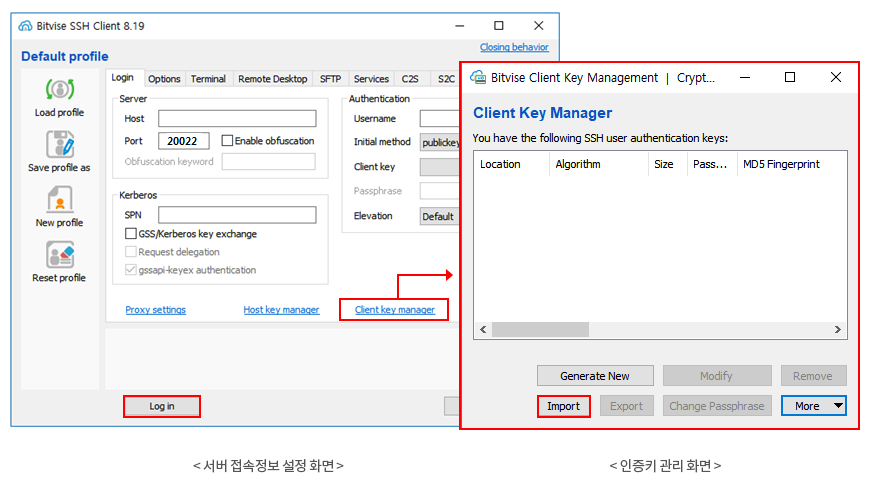
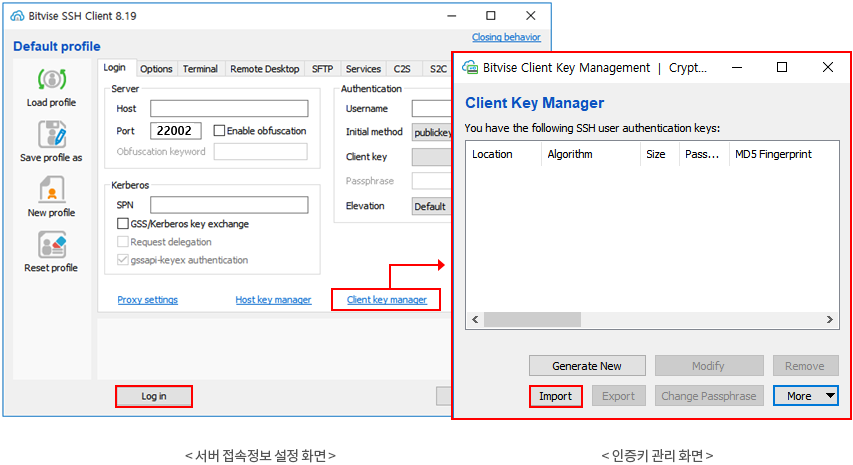
리눅스 접속방법 가이드 수정, 캡쳐화면 및 포트 수정

diff --git a/comm/views/guideInfo/accessGuideInfoLinuxConnect.html b/comm/views/guideInfo/accessGuideInfoLinuxConnect.html
@@ -35,14 +35,12 @@
 	<div class="imgWrap mgt0">
 		<img alt="" src="images/access_guide/access_guide_linux_img01.png" alt="">
 	</div>
-	<p class="txt_level2">‘접속 인증키(KEY)’ 항목의<em class="ico_dw">다운로드 아이콘</em>다운로드 아이콘을 클릭하여 사용자PC에 인증키 파일(.pem)을 저장합니다.</p>
+	<p class="txt_level2">‘접속 인증키 다운로드’를 클릭하여 사용자PC에 인증키 파일(.pem)을 저장합니다.</p>
 	<div class="cnt_msg_box msg-warnning">접속 인증키 파일은 인스턴스에 접속하는 사용자 인증을 위한 유일한 수단입니다. 분실 시 생성한 인스턴스에 접속할 수 없으니 안전하게 보관하시기바랍니다.</div>
 	
 	<h3>2. 접속방법</h3>
 	<p class="txt_level1 pdb0">접속도구를 통해 생성된 인스턴스에 접속하는 방법을 안내합니다.</p>
-	<!-- <p class="txt_level2 pdb0">접속 도구 : <strong>Bitvise SSH Client v8.19</strong></p>
-	<p class="txt_level3">bitvise ssh client 도구를 사용하여 SSH 프로토콜(Protocol) 기반으로 사용자가 생성한 인스턴스에 접속하는 방법을 안내합니다.</p> -->
-	
+
 	<h4>1) 접속도구 실행</h4>
 	<p class="txt_level2 pdb0">사용자PC에 다운로드 받은 bitvise 디렉토리에서<em class="ico_BvSsh">BvSsh 실행파일 아이콘</em>파일을 실행합니다.</p>
 	
